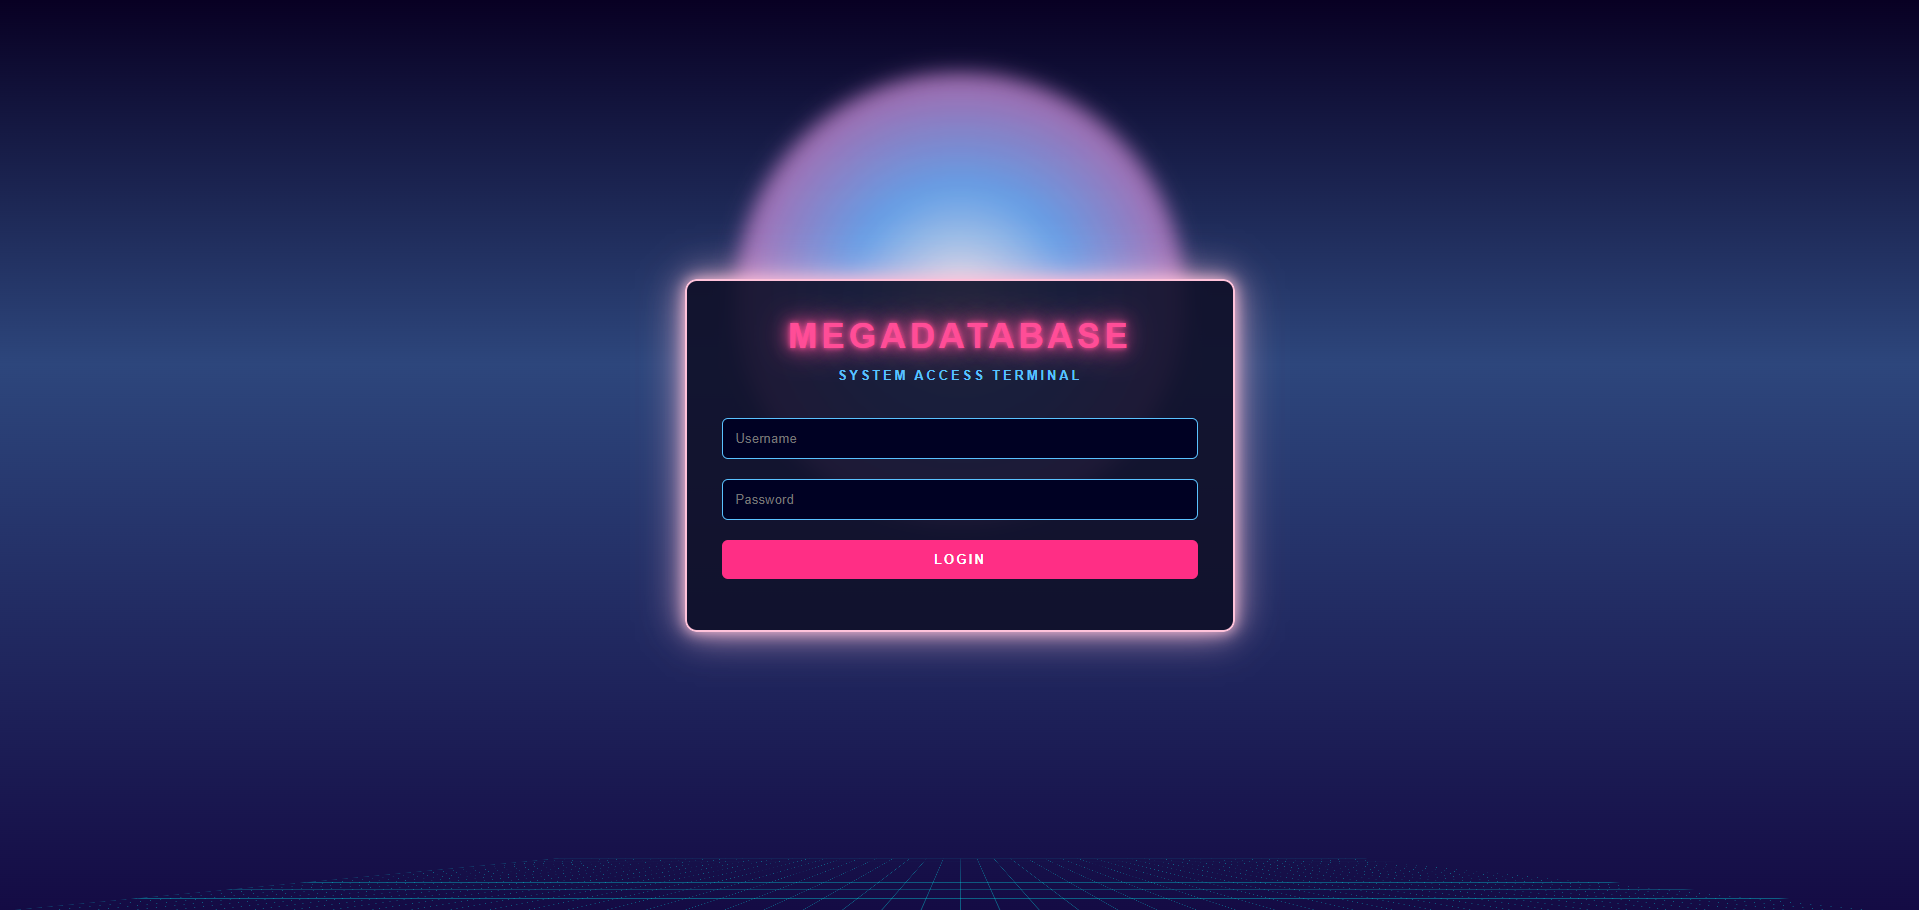
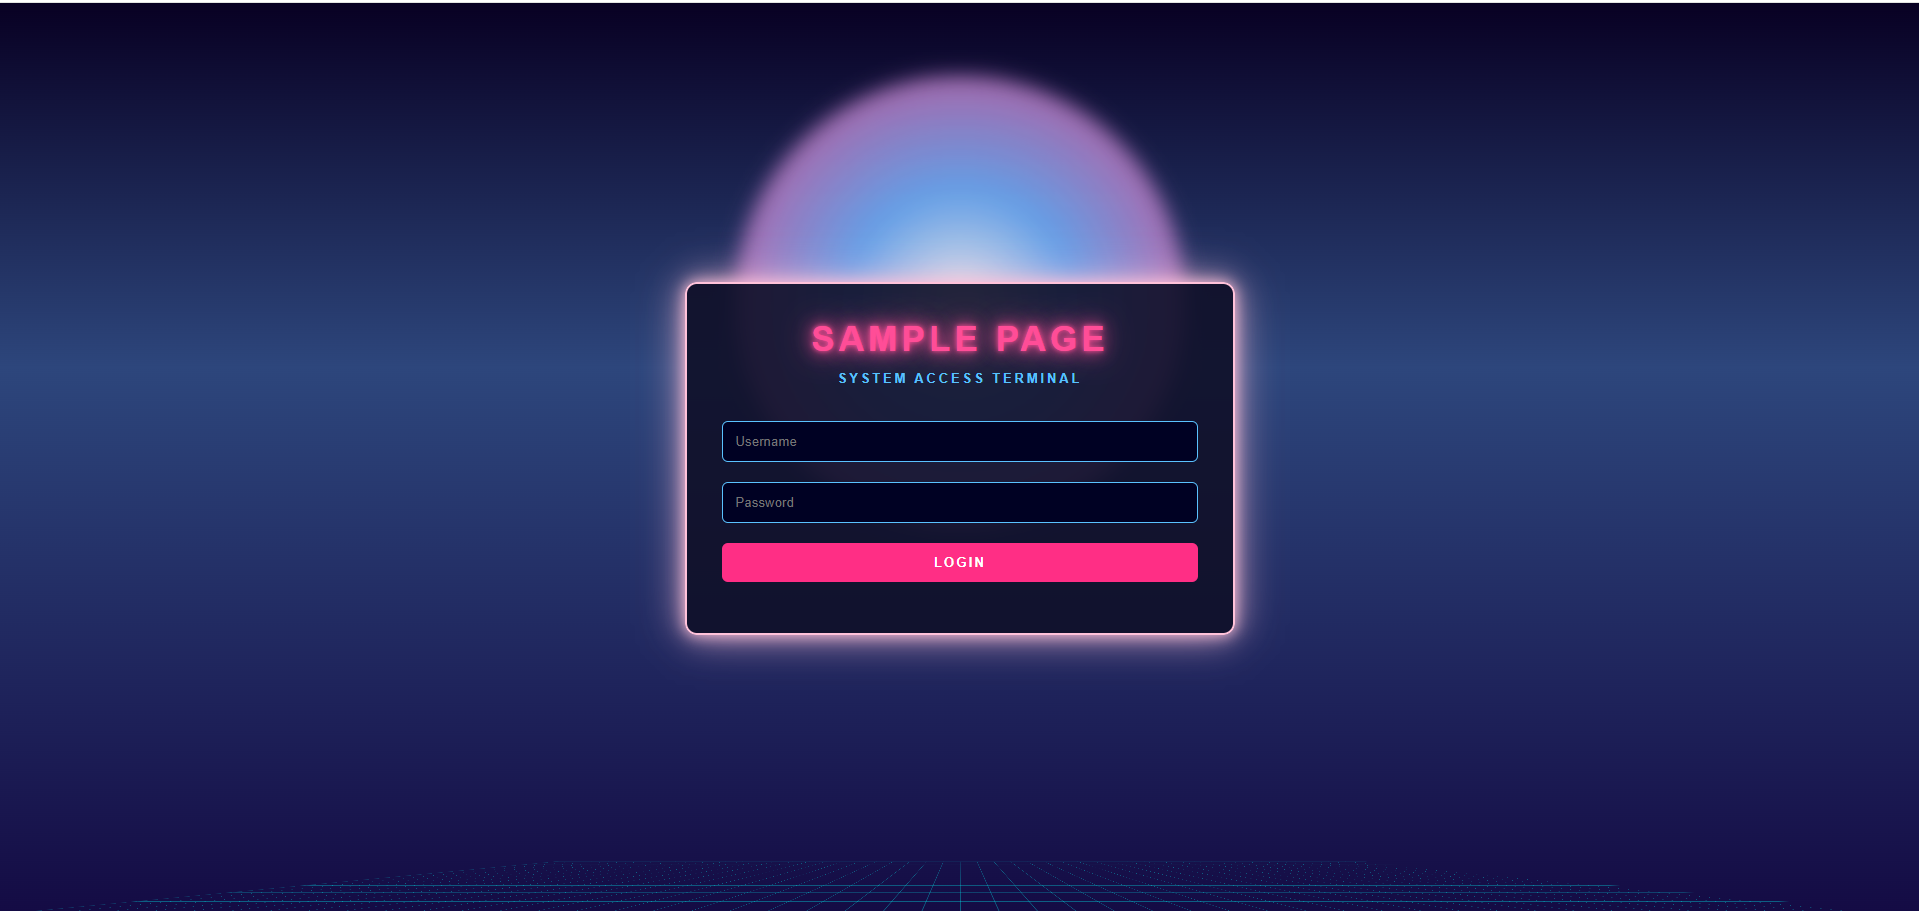
updated title and screenshot

diff --git a/index.html b/index.html
@@ -3,7 +3,7 @@
 <head>
     <meta charset="UTF-8">
     <meta name="viewport" content="width=device-width, initial-scale=1.0">
-    <title>Megadatabase Login</title>
+    <title>Sample Page Login</title>
     <link rel="stylesheet" href="style.css">
     <link href="https://fonts.googleapis.com/css2?family=Orbitron:wght@400=swap">
 </head>
